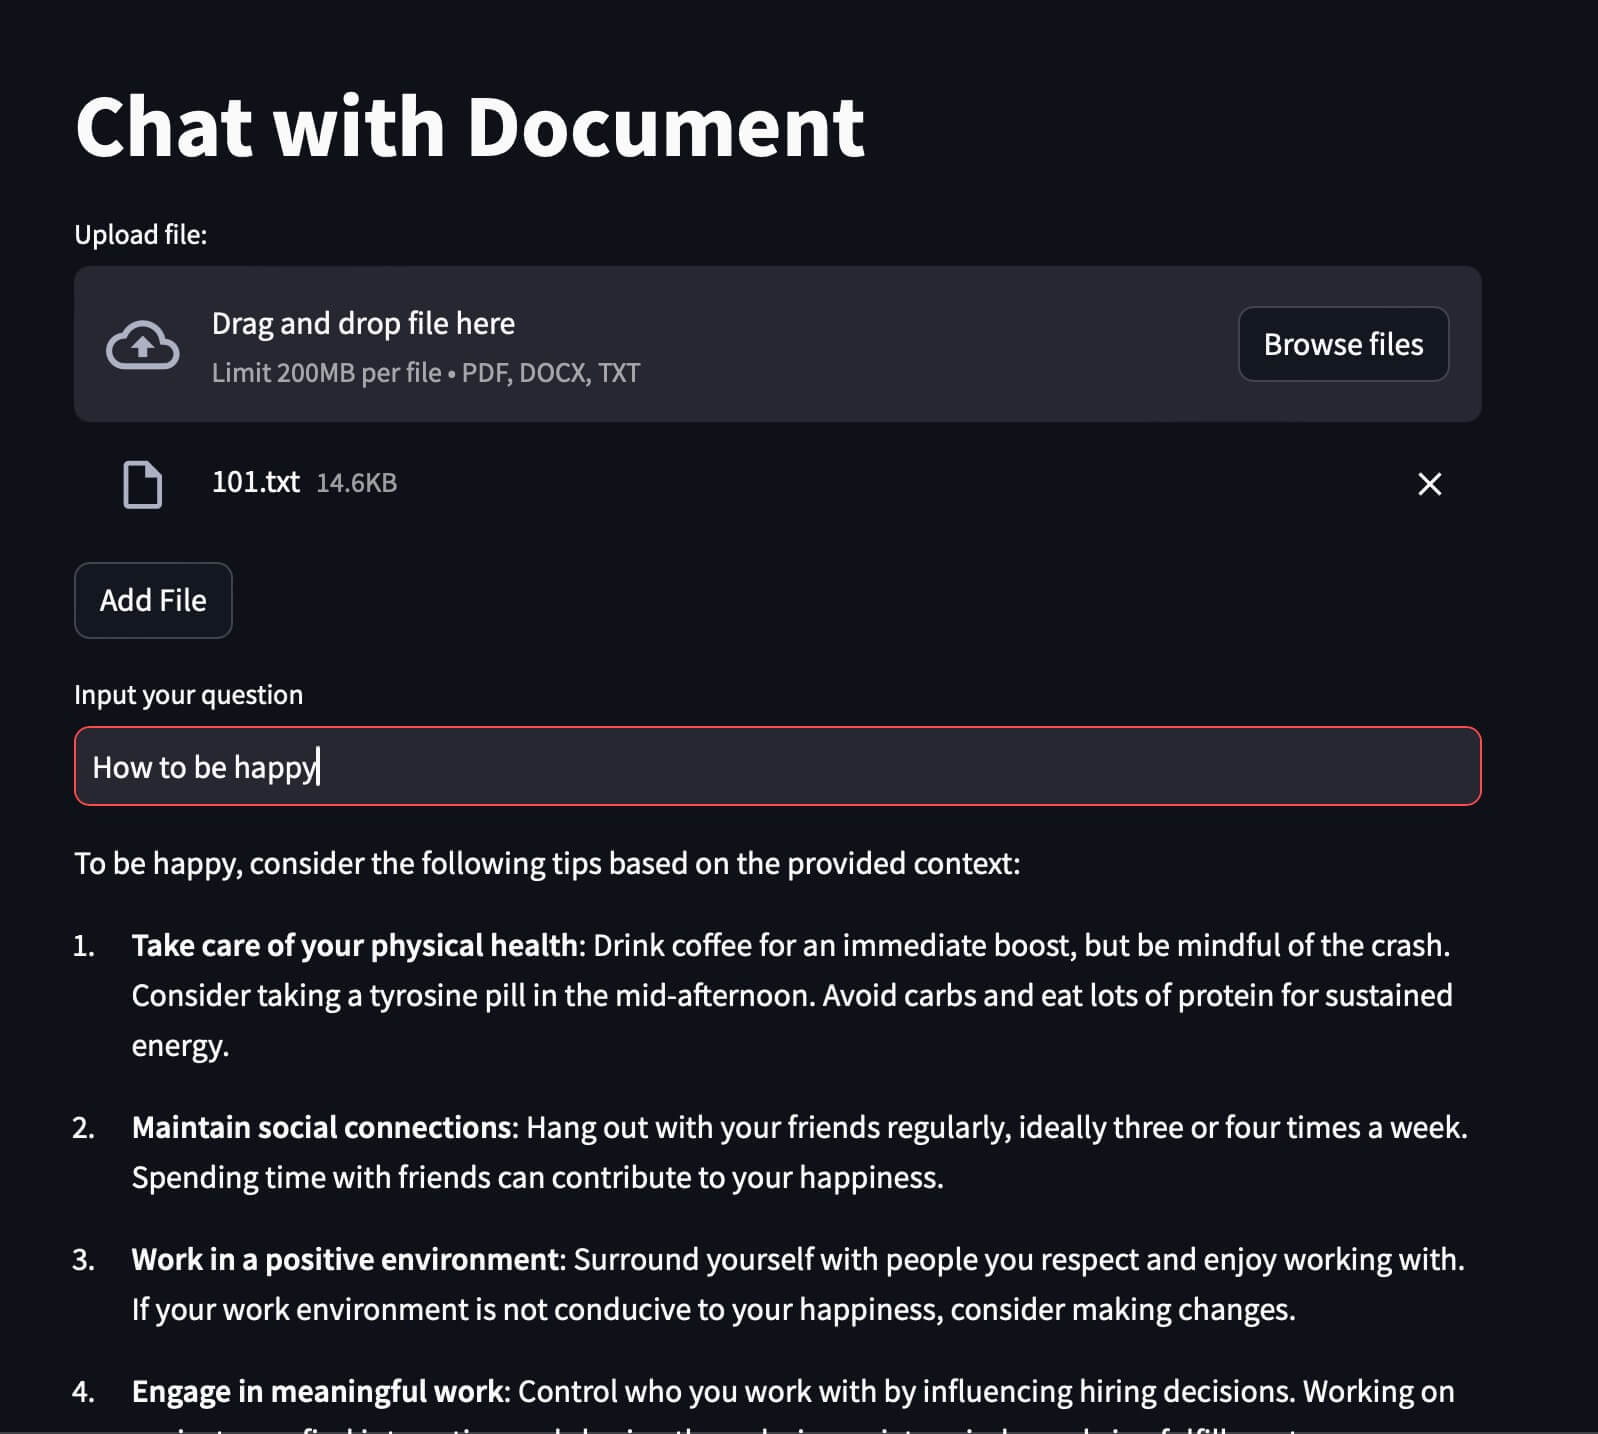
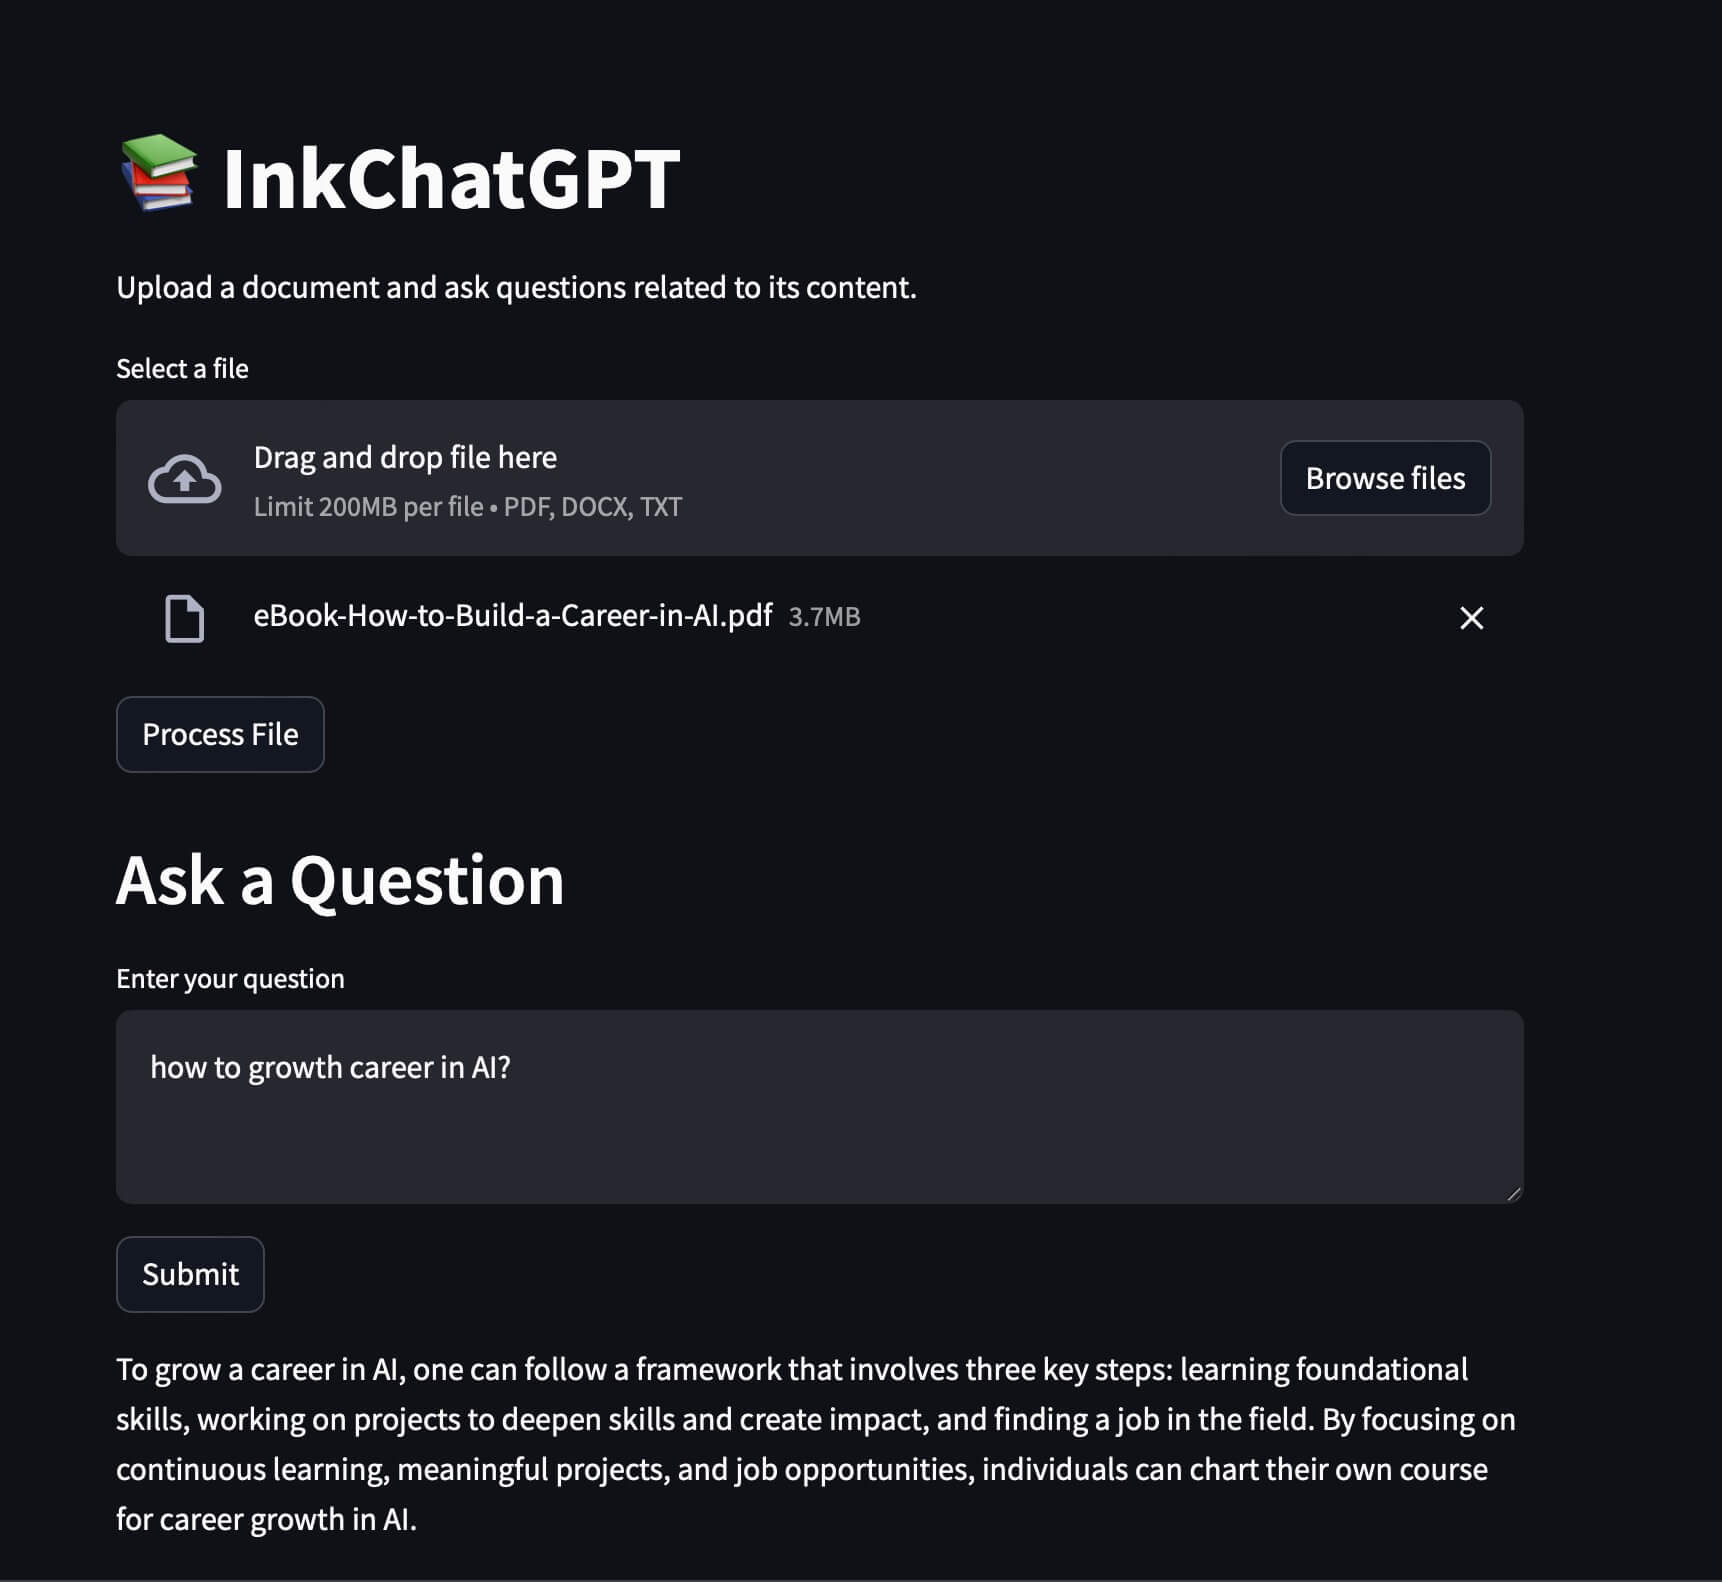
Update UI and cleanup. Update demo screenshot.

diff --git a/app.py b/app.py
@@ -26,7 +26,7 @@ def load_and_process_file(file_data):
     with open(file_name, "wb") as f:
         f.write(file_data.getvalue())
 
-    name, extension = os.path.splitext(file_name)
+    _, extension = os.path.splitext(file_name)
 
     # Load the file using the appropriate loader
     if extension == ".pdf":
@@ -67,13 +67,13 @@ def main():
     """
     The main function that runs the Streamlit app.
     """
-    st.set_page_config(page_title="Chat with Document", page_icon="📚")
+    st.set_page_config(page_title="InkChatGPT", page_icon="📚")
 
     st.title("📚 InkChatGPT")
     st.write("Upload a document and ask questions related to its content.")
 
     uploaded_file = st.file_uploader(
-        "Upload a file", type=["pdf", "docx", "txt"], key="file_uploader"
+        "Select a file", type=["pdf", "docx", "txt"], key="file_uploader"
     )
 
     if uploaded_file:
@@ -84,7 +84,7 @@ def main():
         )
 
     if uploaded_file and add_file:
-        with st.spinner("Processing file..."):
+        with st.spinner("💭 Thinking..."):
             vector_store = load_and_process_file(uploaded_file)
             if vector_store:
                 crc = initialize_chat_model(vector_store)
@@ -94,7 +94,7 @@ def main():
     st.markdown("## Ask a Question")
     question = st.text_area(
         "Enter your question",
-        height=200,
+        height=93,
         key="question_input",
     )
     submit_button = st.button("Submit", key="submit_button")

diff --git a/README.md b/README.md
@@ -6,6 +6,7 @@ The app allows users to upload documents (PDFs or text files), and then ask ques
 
 ---
 
+Running RAG to ask question about certain information inside the Document. For this demo, I use asked the model about the [How to Build Your Career in AI](https://info.deeplearning.ai/how-to-build-a-career-in-ai-book) PDF from Andrew Ng.
 ![Demo Screenshot](./img/screenshot.jpg)
 
 ---
